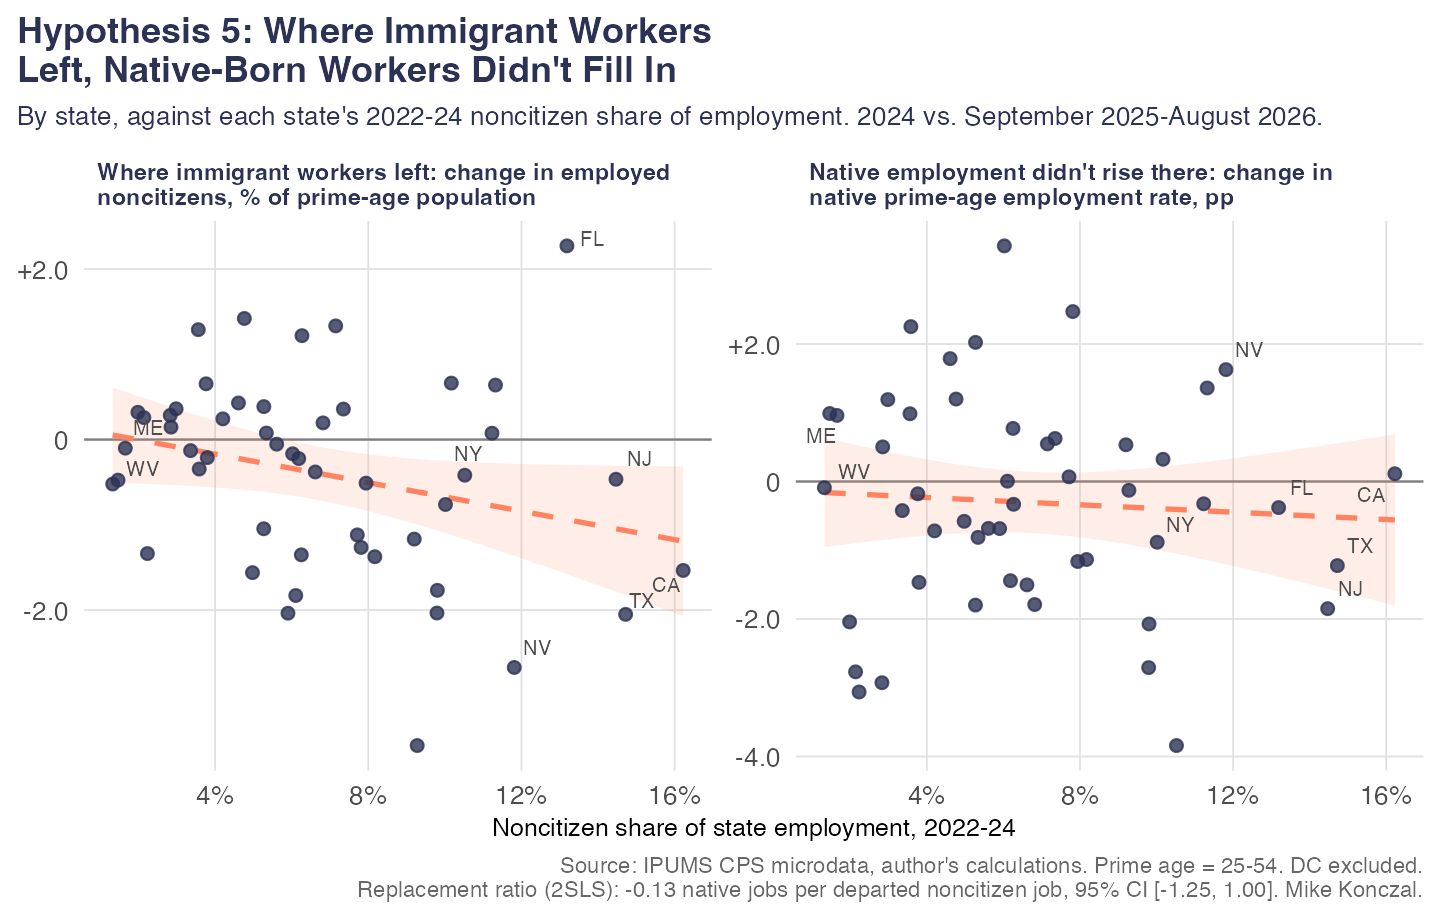
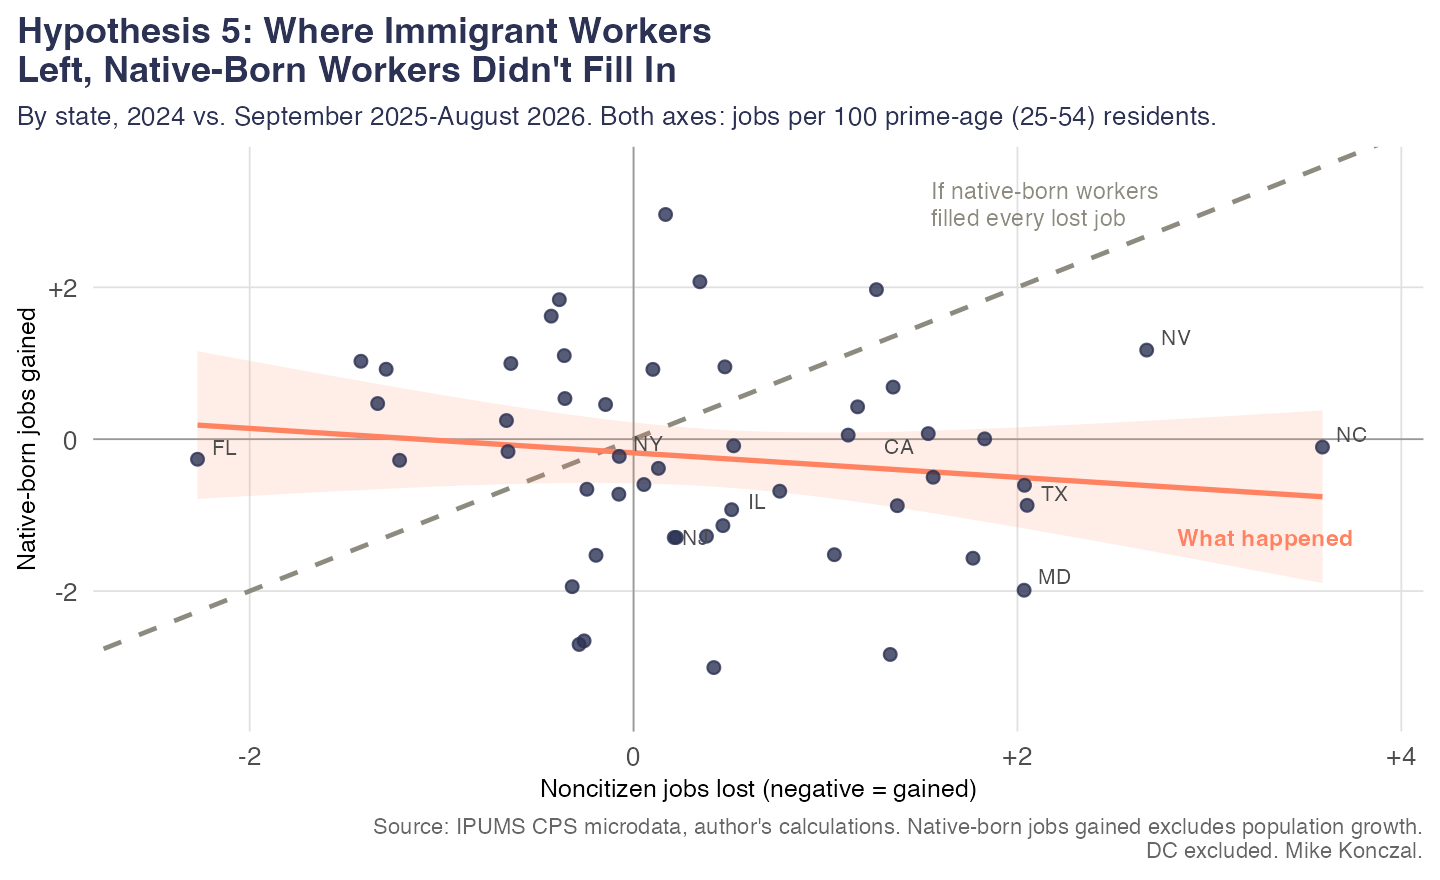
Removed extra graphics

diff --git a/blog_post.md b/blog_post.md
@@ -1,8 +1,8 @@
 In response to my [recent post on women gaining 101% of jobs](https://newsletter.mikekonczal.com/p/why-are-women-over-100-of-jobs-gained) under the Trump administration, [many commentators argued](https://www.breitbart.com/economy/2026/09/10/breitbart-business-digest-liberals-are-worried-too-many-women-got-jobs-last-month/) that this was largely about immigration, about native-born male workers taking jobs formerly held by deported immigrants, which would balance out at zero job gains. As we will see, that's not true (see Hypothesis 3 below): the native-born prime-age male employment-to-population ratio is now about the same as or even below 2024 levels.
 
-But it did make me realize that it's been a little bit since I took a dive into the immigration debates. I'm nervous doing this because I know the Trump administration is not exactly "preponderance of the evidence" people. If they find one thing, one way to pitch the data favorable to them, they'll run with it. Indeed, they spent a lot of 2025 arguing off the CPS raw levels, even though [Jed Kolko](https://jedkolko.substack.com/p/no-native-born-employment-has-not) spent a lot of time politely and ultimately correctly explaining why that was not a good idea. What are the chances we shoot the moon, and find that all dozen of our different hypotheses turn out to go against the restrictionist case?
+But it did make me realize that it's been a little bit since I took a dive into the immigration debates. I'm nervous doing this because I know the Trump administration is not exactly "preponderance of the evidence" people. If they find one thing, one way to pitch the data favorable to them, they'll run with it. Indeed, they spent a lot of 2025 arguing off the CPS raw levels, even though [Jed Kolko](https://jedkolko.substack.com/p/no-native-born-employment-has-not) spent a lot of time politely and ultimately correctly explaining why that was not a good idea. What are the chances we shoot the moon, and find that all ten of our different hypotheses turn out to go against the restrictionist case?
 
-Pretty good actually. I crank through 12 ways in which the mass deportations of the past year could have made things better for native-born workers in the labor market, and none of them came true. They are all null or go in the other direction. That's remarkable. A reminder that the unemployment rate right now (4.14%) is about where it was two years ago (4.19%), so we can't point to an obviously overall weaker macro environment to explain this away. Their theory of the labor market isn't coming true.
+Pretty good actually. I crank through 10 ways in which the mass deportations of the past year could have made things better for native-born workers in the labor market, and none of them came true. They are all null or go in the other direction. That's remarkable. A reminder that the unemployment rate right now (4.14%) is about where it was two years ago (4.19%), so we can't point to an obviously overall weaker macro environment to explain this away. Their theory of the labor market isn't coming true.
 
 We're going to move pretty fast through this. There's [a GitHub here](https://github.com/mtkonczal/blogs_2026_09_deportations_any_native_benefit) where you can go ahead and ask your AI to download it and check it yourself. Let's channel Jonathan Frakes telling us that none of these ever happened, they are all fiction, as we go through these.
 
@@ -34,9 +34,9 @@ It's totally pure fiction. Their unemployment rates are the same or higher. (Not
 
 **Hypothesis 5: In the states that actually lost the most immigrant workers, native-born employment should rise.**
 
-![By state, the 2022-24 noncitizen share of employment versus the change in noncitizen employment and in the native-born prime-age employment rate: immigrant employment fell more in exposed states, native employment did not rise](graphics/fig11_exposure_native.png)
+![By state, noncitizen jobs lost versus native-born jobs gained, per 100 prime-age residents: states do not follow the one-for-one replacement line](graphics/fig11_exposure_native.png)
 
-Not a chance. On the left you can see states with higher noncitizen shares saw noncitizen prime-age employment fall more. On the right, you can see those same states saw no increase in native-born prime-age employment rates. That immigration enforcement doesn't help native-born employment, and can even reduce it, is already in the empirical economics literature ([East et al. 2023](https://www.journals.uchicago.edu/doi/10.1086/721152)), but I guess we get to relearn it here. (Author's IPUMS calculation.)
+Not a chance. If native-born workers took jobs immigrants left states would line up along the dashed line, where you have one native-born job gained for every noncitizen job lost. Instead the line is flat. That immigration enforcement doesn't help native-born employment, and can even reduce it, is already in the empirical economics literature ([East et al. 2023](https://www.journals.uchicago.edu/doi/10.1086/721152)), but I guess we get to relearn it here. (Author's IPUMS calculation.)
 
 **Hypothesis 6: Native-born wage growth would pick up for lower-income workers.** Let's stick with nominal wage growth for native-born workers, since the Iran war causes inflation to skyrocket (and real wages to fall), which is very bad for these workers but separate from what we want to explore here.
 
@@ -67,17 +67,5 @@ We created it. Both measures are at or below their 2024 levels in 2026.
 ![Construction: the foreign-born share of employment fell after 2024, while the share of native-born prime-age adults working in construction stayed flat](graphics/fig9_construction.png)
 
 It's an urban legend. The foreign-born share of construction employment fell. But the share of native-born prime-age adults working in construction didn't rise. It stayed flat.
-
-**Hypothesis 11: States with more ICE arrests should see native-born employment grow faster.** Based on a [Steven Rattner chart](https://x.com/SteveRattner) I can no longer find.
-
-![By state, ICE arrests per 100,000 residents versus the change in native-born employment growth relative to each state's own prior trend: no relationship](graphics/fig10_arrests_native_emp.png)
-
-We got you. There’s no relationship.
-
-**Hypothesis 12: Let AI run wild and see if ICE arrests correlate with anything at all.** This is a bit of a grab bag but at this point I was curious if AI could even data-mine something that mattered.
-
-![23 state-level correlations with ICE enforcement intensity, filled dot means p<0.05: only one clears the bar, and it's a confound, not a result](graphics/fig_state_hypothesis_scan_p05.png)
-
-It never happened. Virtually nothing is significant when it comes to ICE enforcement and making the lives of working people better off.
 
 This doesn't surprise me, and yet I remain surprised by how nothing here tracks to make the economic reality or labor market situation of native-born workers better off. I bet the Trump administration, with an approval rating now with a two-handle, is also surprised as to why everyone hates them and their handling of the economy. If they expected these deportations to have such amazing upsides that they'd balance out the trillions in cuts to health care and brand new neocon wars, economic theory and an incredibly developed empirical literature over the past 20 years would have all told them otherwise.
